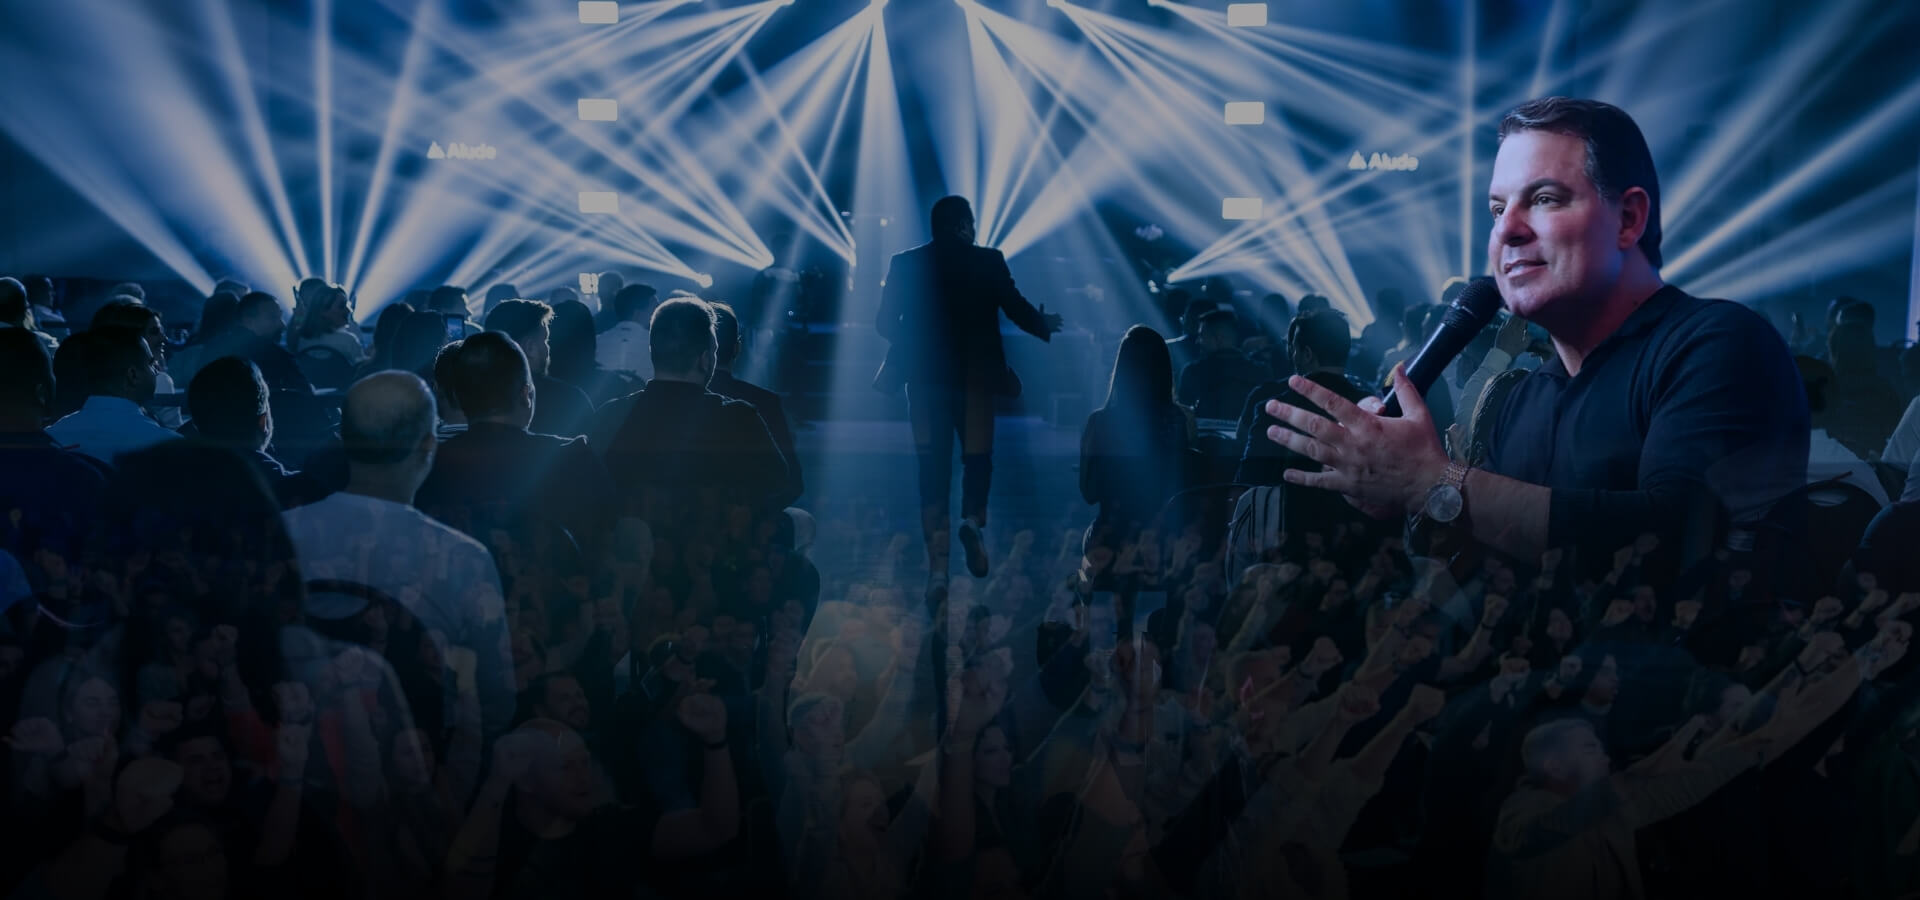
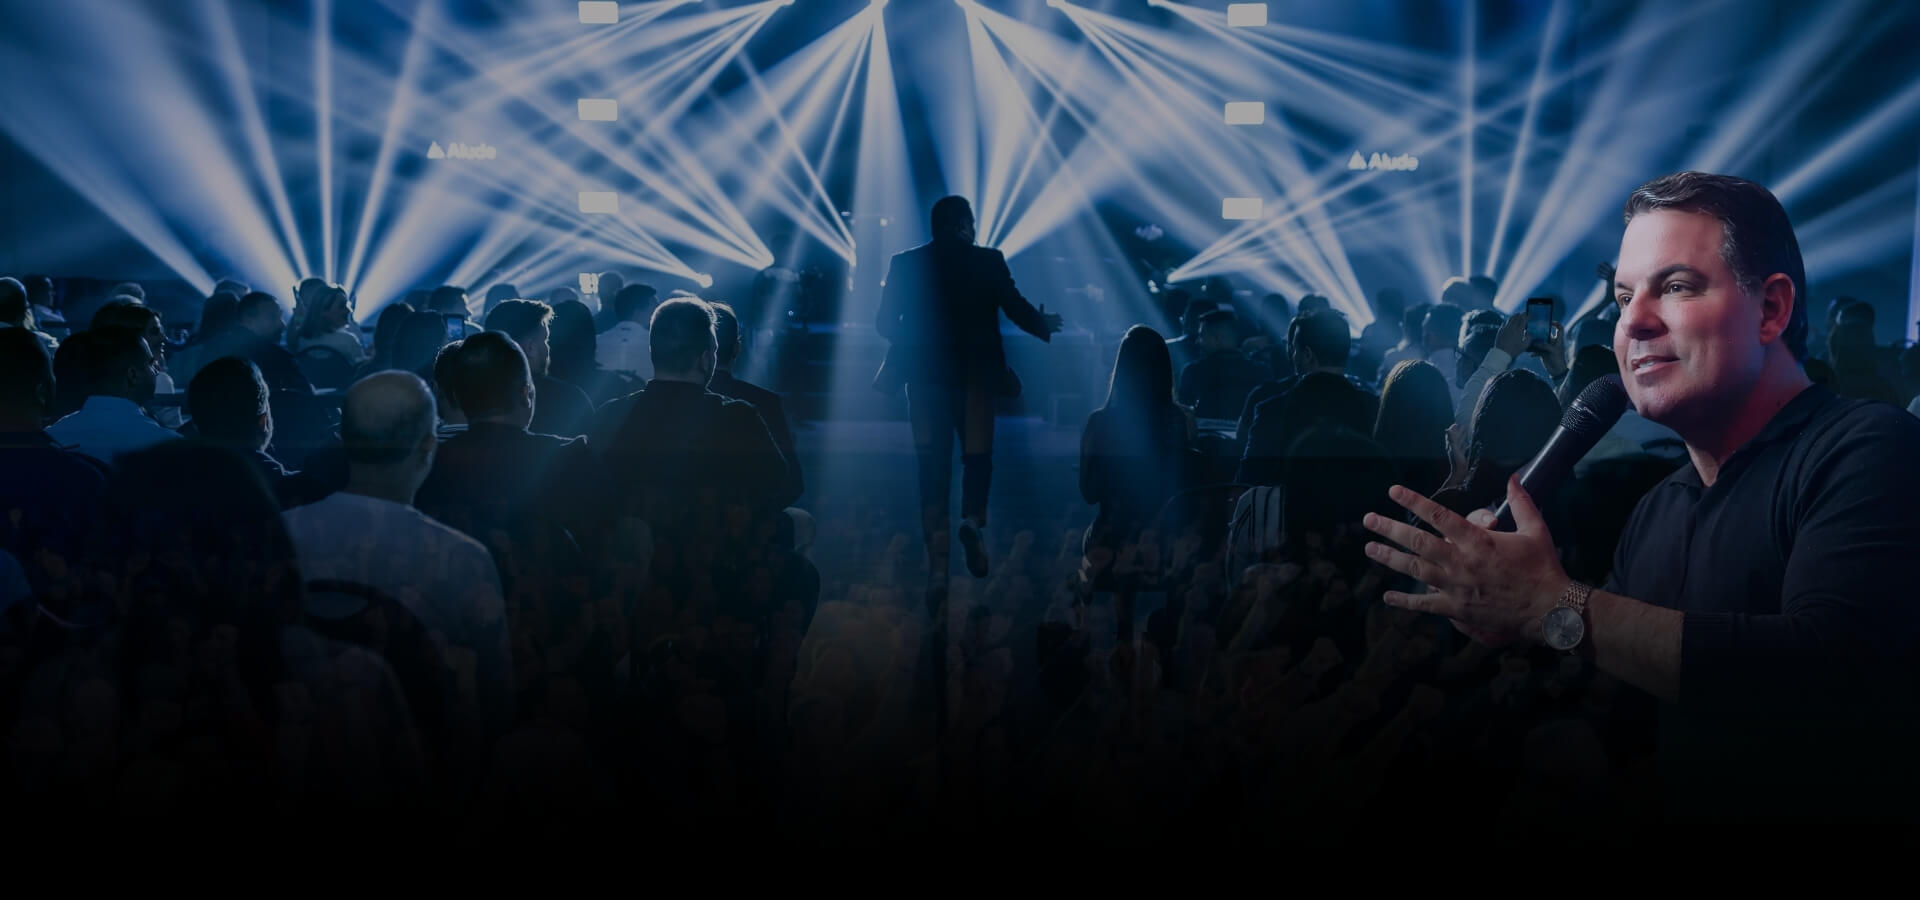
refactor: add Facebook Pixel tracking scripts for event analytics.

diff --git a/app/layout.tsx b/app/layout.tsx
@@ -20,11 +20,60 @@ export const metadata: Metadata = {
   title: "Corretor Vencedor 2026",
   description:
     "O evento que entrega a maior inteligência de conversão de vendas do mercado imobiliário",
+  icons: {
+    icon: "/imersao.favi.png",
+  },
 }
 
 export default function RootLayout({ children }: { children: React.ReactNode }) {
   return (
     <html lang="pt-BR">
+      <head>
+        {/* PIXEL IBRACIV */}
+        <Script id="pixel-ibraciv" strategy="afterInteractive">{`
+          !function(f,b,e,v,n,t,s)
+          {if(f.fbq)return;n=f.fbq=function(){n.callMethod?
+          n.callMethod.apply(n,arguments):n.queue.push(arguments)};
+          if(!f._fbq)f._fbq=n;n.push=n;n.loaded=!0;n.version='2.0';
+          n.queue=[];t=b.createElement(e);t.async=!0;
+          t.src=v;s=b.getElementsByTagName(e)[0];
+          s.parentNode.insertBefore(t,s)}(window, document,'script',
+          'https://connect.facebook.net/en_US/fbevents.js');
+          fbq('init', '2199546020184959');
+          fbq('track', 'PageView');
+        `}</Script>
+        <noscript><img height="1" width="1" style={{ display: "none" }} src="https://www.facebook.com/tr?id=2199546020184959&ev=PageView&noscript=1" /></noscript>
+
+        {/* PIXEL CORRETOR VENCEDOR */}
+        <Script id="pixel-corretor-vencedor" strategy="afterInteractive">{`
+          !function(f,b,e,v,n,t,s)
+          {if(f.fbq)return;n=f.fbq=function(){n.callMethod?
+          n.callMethod.apply(n,arguments):n.queue.push(arguments)};
+          if(!f._fbq)f._fbq=n;n.push=n;n.loaded=!0;n.version='2.0';
+          n.queue=[];t=b.createElement(e);t.async=!0;
+          t.src=v;s=b.getElementsByTagName(e)[0];
+          s.parentNode.insertBefore(t,s)}(window, document,'script',
+          'https://connect.facebook.net/en_US/fbevents.js');
+          fbq('init', '563727482381234');
+          fbq('track', 'PageView');
+        `}</Script>
+        <noscript><img height="1" width="1" style={{ display: "none" }} src="https://www.facebook.com/tr?id=563727482381234&ev=PageView&noscript=1" /></noscript>
+
+        {/* PIXEL ALTEMIR ROCHA */}
+        <Script id="pixel-altemir-rocha" strategy="afterInteractive">{`
+          !function(f,b,e,v,n,t,s)
+          {if(f.fbq)return;n=f.fbq=function(){n.callMethod?
+          n.callMethod.apply(n,arguments):n.queue.push(arguments)};
+          if(!f._fbq)f._fbq=n;n.push=n;n.loaded=!0;n.version='2.0';
+          n.queue=[];t=b.createElement(e);t.async=!0;
+          t.src=v;s=b.getElementsByTagName(e)[0];
+          s.parentNode.insertBefore(t,s)}(window, document,'script',
+          'https://connect.facebook.net/en_US/fbevents.js');
+          fbq('init', '2411095466012755');
+          fbq('track', 'PageView');
+        `}</Script>
+        <noscript><img height="1" width="1" style={{ display: "none" }} src="https://www.facebook.com/tr?id=2411095466012755&ev=PageView&noscript=1" /></noscript>
+      </head>
       <body className={`${montserrat.variable} ${dancingScript.variable} ${montserrat.className}`}>
         <Script src="https://fast.wistia.com/assets/external/E-v1.js" strategy="afterInteractive" />
         <SmoothScroll />